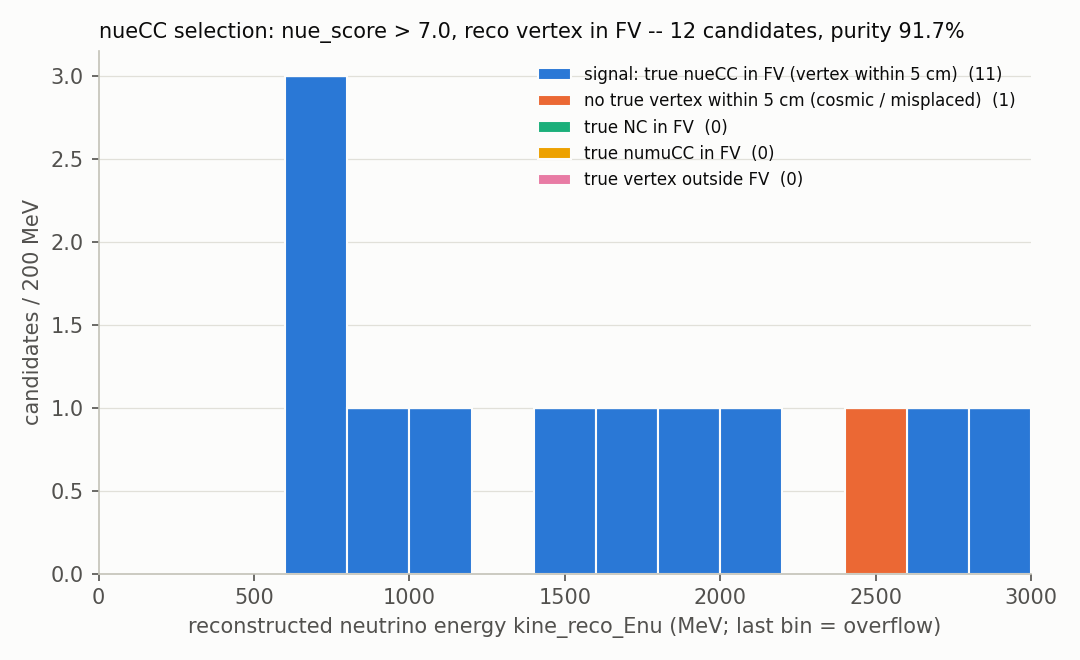
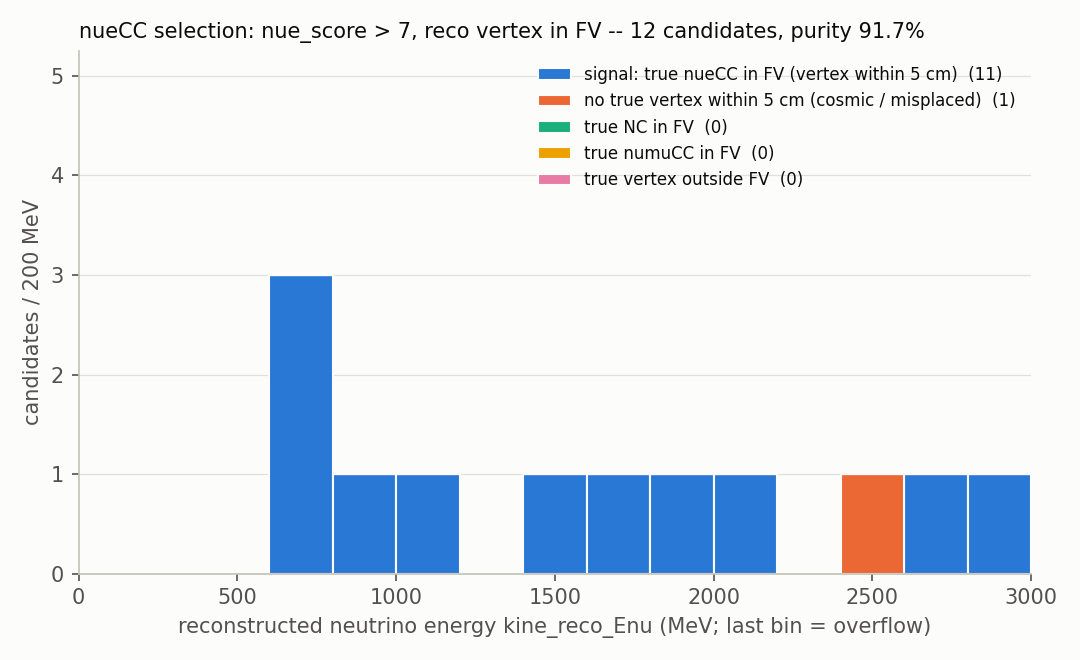
sbnd_xin/docs 107 sec 5.6: signal refined to true Edep > 100 MeV -- the FV vertex-within-5 cm fraction rises 67.7% -> 73.5% (460 of the 462 removed interactions are NC), numuCC (numu_score>0.9) stays at efficiency 69.0% / purity 86.3% and nueCC (>7.0) at 11/31 / 11/12; loosening nue_score to 4.0 giv
Claude-Session: https://claude.ai/code/session_01AFkojkfXqdAE898qtMGiLA

diff --git a/sbnd/sbnd_xin/d107_selection.py b/sbnd/sbnd_xin/d107_selection.py
@@ -1,6 +1,7 @@
 #!/usr/bin/env python3
-"""doc 107 sec 8: vertex quality, numuCC / nueCC selection efficiency and purity,
-and the stacked reconstructed-Enu spectra, from products/d107/{candidates,truth}.tsv.
+"""doc 107 sec 5.5-5.6: vertex quality, numuCC / nueCC selection efficiency and
+purity, and the stacked reconstructed-Enu spectra, from
+products/d107/{candidates,truth}.tsv.
 
 Definitions (owner's choices, 2026-09-14):
   FV        5 < |x| < 190, |y| < 190, 10 < z < 450 cm  (standard analysis FV,
@@ -8,8 +9,9 @@ Definitions (owner's choices, 2026-09-14):
             reco vertex = T_tagger nu_x/y/z.
   match     a candidate's reco vertex within 5 cm of the true vertex (its nearest
             true interaction in the event).
-  selection score cut (numu_score > 0.9 / nue_score > 7.0) AND reco vertex in FV.
-  signal    true CC of that flavour with its true vertex in the FV.
+  selection score cut (e.g. numu_score > 0.9 / nue_score > 7.0) AND reco vertex in FV.
+  signal    true CC of that flavour with its true vertex in the FV and, with
+            --edep-min E, true deposited energy Edep > E MeV (sec 5.6: E = 100).
   efficiency = true signal interactions with >= 1 matched selected candidate
                / true signal interactions.
   purity     = selected candidates matched to a signal interaction
@@ -18,26 +20,39 @@ Definitions (owner's choices, 2026-09-14):
   "numu", +-12 to "nue"), so "numuCC" includes anti-numu CC.
 
 Usage:
-  python3 d107_selection.py products/d107 docs/107_sel
+  python3 d107_selection.py products/d107 docs/107_sel                  # sec 5.5
+  python3 d107_selection.py products/d107 docs/107_sel_edep100 \
+      --edep-min 100 --cuts numu:0.9,nue:7.0,nue:4.0                    # sec 5.6
 """
+import argparse
 import collections
 import csv
 import math
 import os
-import sys
 
 import matplotlib
 
 matplotlib.use("Agg")
 import matplotlib.pyplot as plt  # noqa: E402
 
-src = sys.argv[1] if len(sys.argv) > 1 else "products/d107"
-figdir = sys.argv[2] if len(sys.argv) > 2 else "docs/107_sel"
+ap = argparse.ArgumentParser(description=__doc__,
+                             formatter_class=argparse.RawDescriptionHelpFormatter)
+ap.add_argument("src", nargs="?", default="products/d107")
+ap.add_argument("figdir", nargs="?", default="docs/107_sel")
+ap.add_argument("--edep-min", type=float, default=0.0,
+                help="signal also needs true Edep > this (MeV); 0 = no Edep requirement")
+ap.add_argument("--cuts", default="numu:0.9,nue:7.0",
+                help="comma list of flavour:score_cut")
+args = ap.parse_args()
+src, figdir, EDEP_MIN = args.src, args.figdir, args.edep_min
 C = list(csv.DictReader(open(os.path.join(src, "candidates.tsv")), delimiter="\t"))
 T = list(csv.DictReader(open(os.path.join(src, "truth.tsv")), delimiter="\t"))
 f = float
 MATCH_CM = 5.0
-CUTS = {"numu": ("numu_score", 0.9), "nue": ("nue_score", 7.0)}
+SCORE = {"numu": "numu_score", "nue": "nue_score"}
+DEFAULT_CUT = {"numu": 0.9, "nue": 7.0}
+CUTS = [(fl, float(c)) for fl, c in (x.split(":") for x in args.cuts.split(","))]
+EDEP_TXT = f", Edep > {EDEP_MIN:g} MeV" if EDEP_MIN > 0 else ""
 
 
 def in_fv(x, y, z):
@@ -71,6 +86,8 @@ truth = {}
 for t in T:
     t["fv"] = in_fv(f(t["vx"]), f(t["vy"]), f(t["vz"]))
     t["cls"] = tclass(t["flav"], t["ccnc"])
+    # no Edep requirement at all when --edep-min is 0 (23 FV interactions have Edep = 0)
+    t["edep_ok"] = EDEP_MIN <= 0 or f(t["Edep"]) > EDEP_MIN
     truth[(ev(t), t["idx"])] = t
 for r in C:
     r["reco_fv"] = r["vertex_default"] == "0" and in_fv(f(r["nu_x"]), f(r["nu_y"]), f(r["nu_z"]))
@@ -80,15 +97,16 @@ for r in C:
 
 out = []
 p = out.append
-p("# doc 107 sec 8 -- selection numbers (d107_selection.py)")
+p("# doc 107 sec 5.5 -- selection numbers (d107_selection.py)" if EDEP_MIN <= 0 else
+  f"# doc 107 sec 5.6 -- selection numbers, signal Edep > {EDEP_MIN:g} MeV (d107_selection.py)")
 p(f"FV 5<|x|<190, |y|<190, 10<z<450 cm; match = reco vertex within {MATCH_CM} cm; "
   "intervals are 68% Wilson")
 p(f"truth interactions {len(T)}, in FV {sum(t['fv'] for t in T)}; candidates {len(C)}, "
   f"reco vertex in FV {sum(r['reco_fv'] for r in C)}")
 
 # ---- Q1: vertex quality for true interactions in the FV
-p("\n## Q1 vertex within 5 cm, true vertex in FV")
-fvT = [t for t in T if t["fv"]]
+p(f"\n## Q1 vertex within 5 cm, true vertex in FV{EDEP_TXT}")
+fvT = [t for t in T if t["fv"] and t["edep_ok"]]
 hit = lambda t: 0 <= f(t["min_cand_dist_cm"]) < MATCH_CM
 p("all true nu in FV:               " + frac(sum(hit(t) for t in fvT), len(fvT)))
 wc = [t for t in fvT if t["event_has_candidate"] == "1"]
@@ -98,8 +116,12 @@ for cl in ("numuCC", "NC", "nueCC"):
     p(f"  {cl:7s}:                       " + frac(sum(hit(t) for t in s), len(s)))
 for lo, hi in [(0, 100), (100, 300), (300, 1e9)]:
     s = [t for t in fvT if lo <= f(t["Edep"]) < hi]
+    if not s:
+        continue
     p(f"  Edep [{lo},{hi if hi < 1e9 else 'inf'}) MeV:          "
       + frac(sum(hit(t) for t in s), len(s)))
+
+LOW_EDEP = "same CC in FV, Edep <= {e:g} MeV"
 
 
 # ---- Q2-Q4: efficiency and purity
@@ -114,19 +136,23 @@ def category(r, flav):
         return "NC in FV"
     if t["cls"] != flav + "CC":
         return ("nueCC" if flav == "numu" else "numuCC") + " in FV"
+    if not t["edep_ok"]:
+        return LOW_EDEP
     return "signal"
 
 
 summary = {}
-for flav, (col, cut) in CUTS.items():
+for flav, cut in CUTS:
+    col = SCORE[flav]
     sig = flav + "CC"
-    p(f"\n## {sig}: {col} > {cut} and reco vertex in FV")
+    p(f"\n## {sig}: {col} > {cut:g} and reco vertex in FV; signal = true {sig} in FV{EDEP_TXT}")
     sigT = [t for t in fvT if t["cls"] == sig]
     matched_any = set()
     matched_fv = set()
     matched_sel = set()
     for r in C:
-        if r["matched"] and r["truth"] is not None and r["truth"]["fv"] and r["truth"]["cls"] == sig:
+        t = r["truth"]
+        if r["matched"] and t is not None and t["fv"] and t["edep_ok"] and t["cls"] == sig:
             key = (ev(r), r["t_idx"])
             matched_any.add(key)
             if r["reco_fv"]:
@@ -138,10 +164,10 @@ for flav, (col, cut) in CUTS.items():
     k_any = sum(k in matched_any for k in keys)
     k_fv = sum(k in matched_fv for k in keys)
     k_sel = sum(k in matched_sel for k in keys)
-    p(f"true {sig} in FV: {n}")
+    p(f"true {sig} in FV{EDEP_TXT}: {n}")
     p("  candidate vertex within 5 cm:              " + frac(k_any, n))
     p("  ... and reco vertex in FV:                 " + frac(k_fv, n))
-    p(f"  ... and {col} > {cut} (EFFICIENCY):      " + frac(k_sel, n))
+    p(f"  ... and {col} > {cut:g} (EFFICIENCY):      " + frac(k_sel, n))
     p(f"  score-cut efficiency given a matched FV candidate: " + frac(k_sel, k_fv))
     sel = [r for r in C if r["reco_fv"] and f(r[col]) > cut]
     cats = collections.Counter(category(r, flav) for r in sel)
@@ -149,7 +175,7 @@ for flav, (col, cut) in CUTS.items():
     p("  PURITY (signal):                           " + frac(cats["signal"], len(sel)))
     for c, v in cats.most_common():
         if c != "signal":
-            p(f"  background {c:28s} {v:5d} ({100*v/max(1,len(sel)):.1f}%)")
+            p(f"  background {c.format(e=EDEP_MIN):28s} {v:5d} ({100*v/max(1,len(sel)):.1f}%)")
     # split the unmatched background by the distance to (and class of) the
     # nearest true interaction: 5-20 cm from a true signal-flavour CC is a
     # misplaced vertex on a real neutrino, > 50 cm is cosmic / other activity
@@ -165,7 +191,7 @@ for flav, (col, cut) in CUTS.items():
     sel_all = [r for r in C if f(r[col]) > cut]
     p(f"  (no reco-FV requirement: {len(sel_all)} candidates, signal "
       + frac(sum(category(r, flav) == 'signal' for r in sel_all), len(sel_all)) + ")")
-    summary[flav] = (sel, cats)
+    summary[(flav, cut)] = (sel, cats)
 
 txt = "\n".join(out) + "\n"
 print(txt)
@@ -175,40 +201,45 @@ with open(os.path.join(figdir, "d107_selection.txt"), "w") as fo:
 
 # ---- plots: stacked reco-Enu spectra, signal vs background categories
 SURFACE, INK, INK2, GRID, AXIS = "#fcfcfb", "#0b0b0b", "#52514e", "#e1e0d9", "#c3c2b7"
-# categorical slots 1-5 of the validated reference palette, fixed order
+# categorical slots 1-6 of the validated reference palette, fixed order
 ORDER = {
     "numu": ["signal", "no true vertex within 5 cm", "NC in FV", "nueCC in FV",
              "true vertex outside FV"],
     "nue": ["signal", "no true vertex within 5 cm", "NC in FV", "numuCC in FV",
             "true vertex outside FV"],
 }
-COLORS = ["#2a78d6", "#eb6834", "#1baf7a", "#eda100", "#e87ba4"]
-LABEL = {"signal": "signal: true {s} in FV (vertex within 5 cm)",
+COLORS = ["#2a78d6", "#eb6834", "#1baf7a", "#eda100", "#e87ba4", "#008300"]
+LABEL = {"signal": "signal: true {s} in FV{x} (vertex within 5 cm)",
          "no true vertex within 5 cm": "no true vertex within 5 cm (cosmic / misplaced)",
          "NC in FV": "true NC in FV", "nueCC in FV": "true nueCC in FV",
          "numuCC in FV": "true numuCC in FV",
-         "true vertex outside FV": "true vertex outside FV"}
+         "true vertex outside FV": "true vertex outside FV",
+         LOW_EDEP: "true {s} in FV, Edep <= {e:g} MeV"}
 BINS = {"numu": [i * 100 for i in range(31)], "nue": [i * 200 for i in range(16)]}
 plt.rcParams.update({"font.family": "sans-serif", "font.size": 10})
-for flav, (col, cut) in CUTS.items():
-    sel, cats = summary[flav]
+for flav, cut in CUTS:
+    col = SCORE[flav]
+    sel, cats = summary[(flav, cut)]
     sig = flav + "CC"
+    order = ORDER[flav] + ([LOW_EDEP] if EDEP_MIN > 0 else [])
     fig, ax = plt.subplots(figsize=(7.2, 4.4), dpi=150)
     fig.patch.set_facecolor(SURFACE)
     ax.set_facecolor(SURFACE)
     data, labels, colors = [], [], []
-    for cat, colr in zip(ORDER[flav], COLORS):
+    for cat, colr in zip(order, COLORS):
         e = [min(f(r["reco_Enu"]), BINS[flav][-1] - 1e-6) for r in sel if category(r, flav) == cat]
         data.append(e)
-        labels.append(f"{LABEL[cat].format(s=sig)}  ({len(e)})")
+        labels.append(f"{LABEL[cat].format(s=sig, x=EDEP_TXT, e=EDEP_MIN)}  ({len(e)})")
         colors.append(colr)
-    ax.hist(data, bins=BINS[flav], stacked=True, color=colors, label=labels,
-            edgecolor=SURFACE, linewidth=1.0)
+    counts, _, _ = ax.hist(data, bins=BINS[flav], stacked=True, color=colors, label=labels,
+                           edgecolor=SURFACE, linewidth=1.0)
     ax.set_xlim(BINS[flav][0], BINS[flav][-1])
+    # headroom so the legend never sits on a bar
+    ax.set_ylim(0, 1.75 * max(1.0, float(max(counts[-1]))))
     ax.set_xlabel("reconstructed neutrino energy kine_reco_Enu (MeV; last bin = overflow)", color=INK2)
     ax.set_ylabel(f"candidates / {BINS[flav][1]} MeV", color=INK2)
     k = cats["signal"]
-    ax.set_title(f"{sig} selection: {col} > {cut}, reco vertex in FV -- "
+    ax.set_title(f"{sig} selection: {col} > {cut:g}, reco vertex in FV -- "
                  f"{len(sel)} candidates, purity {100*k/max(1,len(sel)):.1f}%",
                  color=INK, fontsize=10, loc="left")
     ax.grid(axis="y", color=GRID, linewidth=0.6)
@@ -222,6 +253,7 @@ for flav, (col, cut) in CUTS.items():
     for t in leg.get_texts():
         t.set_color(INK)
     fig.tight_layout()
-    fig.savefig(os.path.join(figdir, f"d107_enu_{flav}cc.png"), facecolor=SURFACE)
+    suffix = "" if cut == DEFAULT_CUT[flav] else f"_cut{cut:g}"
+    fig.savefig(os.path.join(figdir, f"d107_enu_{flav}cc{suffix}.png"), facecolor=SURFACE)
     plt.close(fig)
 print("wrote", figdir)

diff --git a/sbnd/sbnd_xin/docs/107_mc-truth-and-tagger-consistency.md b/sbnd/sbnd_xin/docs/107_mc-truth-and-tagger-consistency.md
@@ -27,7 +27,7 @@ write into an existing output dir.
 | Where is the reco? | `tracking-pr/tracking-pr_<tag>.root`. `T_tagger` holds `numu_score`, `nue_score`, `neutrino_type`, the ~1200 tagger/BDT variables and the `act_*` cosmic-tagger arrays. `T_kine` holds `kine_reco_Enu`. Both have one row per neutrino candidate. |
 | Where is the truth (type, Enu, vertex)? | **Only in Bee**, in `bee/bee_<tag>.zip::data/0/0-mc.json`. The tracking-pr ROOT files carry **no** truth branches. |
 | Does mc.json hold truth or reco particle flow? | **Both, in one tree.** The truth interaction nodes (id 9000000+) come from larwirecell's `TensorSetLabeler`. Our reco PF is grafted under a single `reco nu …` node (id 19999999, children ≥ 20000000), or a `no reco neutrino candidate (…)` marker replaces it. Each node is unambiguous by id and text (section 2.2). |
-| Vertex quality / numuCC / nueCC selection (FV 5<\|x\|<190, \|y\|<190, 10<z<450 cm; match = vertex within 5 cm) | Vertex within 5 cm for 67.7 % of true ν in the FV (80.0 % numuCC). numuCC with `numu_score>0.9`: efficiency **69.0 %**, purity **86.3 %**. nueCC with `nue_score>7.0`: 11/31 = 35.5 % efficiency and 11/12 purity, which is statistics-limited in this BNB sample (section 5.5). |
+| Vertex quality / numuCC / nueCC selection (FV 5<\|x\|<190, \|y\|<190, 10<z<450 cm; match = vertex within 5 cm) | Vertex within 5 cm for 67.7 % of true ν in the FV (80.0 % numuCC). numuCC with `numu_score>0.9`: efficiency **69.0 %**, purity **86.3 %**. nueCC with `nue_score>7.0`: 11/31 = 35.5 % efficiency and 11/12 purity, which is statistics-limited in this BNB sample (section 5.5). Requiring true Edep > 100 MeV in the signal raises the vertex number to 73.5 % and leaves both selections unchanged. At `nue_score>4.0` the nueCC purity is 14/22 = 63.6 % (efficiency 14/31) (section 5.6). |
 | Is the PR candidate the non-cosmic one? | **Yes, in 6236/6236 rows, by construction.** The per-bundle `pick()` skips any activity with TGM, STM or `lm_flag>0` (section 3). The informative numbers are the residuals in section 4. |
 
 ## 1. The sample
@@ -433,6 +433,76 @@ set) for signal and this sample for the numu/NC/cosmic background.
 Both figures: stacked `kine_reco_Enu`, last bin = overflow, with category counts in
 the legend. The categories and colours are the same on both, in fixed order; an
 empty category keeps its legend entry so the two plots stay comparable.
+
+## 5.6 Signal with true Edep > 100 MeV, and the nueCC cut at 4 (owner follow-up)
+
+Repro:
+
+```bash
+cd /home/xqian/toolkit-dev/wcp-porting-img/sbnd/sbnd_xin
+python3 d107_selection.py products/d107 docs/107_sel_edep100 --edep-min 100 \
+    --cuts numu:0.9,nue:7.0,nue:4.0 > ~/tmp/d107_sel_edep100.log 2>&1; echo rc=$?
+# section 5.5 numbers plus the nue > 4 line under the original definition:
+python3 d107_selection.py products/d107 docs/107_sel --cuts numu:0.9,nue:7.0,nue:4.0
+```
+
+**Refined signal:** a true CC of that flavour, vertex in the FV, **and true deposited
+energy `Edep` > 100 MeV**. `Edep` is the labeler's sum of `SimEnergyDeposit` energy
+from that interaction's particles (section 2.2).
+- **Selection:** the score cut plus reco vertex in the FV, exactly as in section 5.5.
+- **Low-Edep CC:** a selected candidate matched to a signal-flavour CC in the FV with `Edep` ≤ 100 MeV counts as background.
+- **Q1 denominator:** also restricted to `Edep` > 100 MeV.
+
+The rerun of the section 5.5 definition with the updated script reproduces every
+section 5.5 number. Only the header text changes, plus the added nue > 4 block.
+
+### Q1 with Edep > 100 MeV
+
+| Population (true vertex in FV, Edep > 100 MeV) | Vertex within 5 cm | (sec 5.5, no Edep cut) |
+|---|---|---|
+| **all true neutrinos** | **3262/4439 = 73.5 %** [72.8, 74.1] | 67.7 % |
+| … only events that have a candidate | 3262/4128 = 79.0 % | 77.5 % |
+| true numuCC | 2801/3500 = 80.0 % | 80.0 % |
+| true NC | 437/908 = 48.1 % [46.5, 49.8] | 35.8 % |
+| true nueCC | 24/31 = 77.4 % | 77.4 % |
+
+The Edep cut removes 462 low-activity FV interactions, 460 of them NC. That is where
+the all-neutrino number moves from 67.7 % to 73.5 %.
+
+### numuCC and nueCC with Edep > 100 MeV
+
+| Selection | True signal in FV (Edep > 100 MeV) | Efficiency | Selected | Purity |
+|---|---|---|---|---|
+| `numu_score > 0.9` | 3 500 | **2415/3500 = 69.0 %** [68.2, 69.8] | 2 799 | **2415/2799 = 86.3 %** [85.6, 86.9] |
+| `nue_score > 7.0` | 31 | **11/31 = 35.5 %** [27.5, 44.4] | 12 | **11/12 = 91.7 %** [80.2, 96.8] |
+| `nue_score > 4.0` | 31 | **14/31 = 45.2 %** [36.5, 54.1] | 22 | **14/22 = 63.6 %** [53.0, 73.1] |
+
+**The Edep requirement does not move the selection numbers.**
+- **numuCC:** only 2 of the 3 502 true numuCC in the FV have `Edep` ≤ 100 MeV, and neither was selected. The efficiency denominator drops by 2 and the purity is unchanged.
+- **nueCC:** all 31 true nueCC in the FV have `Edep` > 100 MeV.
+- **Low-Edep background:** the category "same CC in FV, Edep ≤ 100 MeV" is empty in all three selections.
+
+**nueCC at `nue_score > 4.0`:** purity is **14/22 = 63.6 %** [53.0, 73.1], identical
+with and without the Edep cut. Loosening from 7.0 to 4.0 gains 3 signal (11 → 14)
+and 7 background (1 → 8). The 8 background candidates are:
+
+| Background at `nue_score > 4.0` | Count |
+|---|---|
+| true numuCC in FV (vertex within 5 cm) | 3 |
+| true NC in FV (vertex within 5 cm) | 2 |
+| no true vertex within 5 cm (nearest: an NC at 20-50 cm, a numuCC > 50 cm) | 2 |
+| true vertex outside FV | 1 |
+
+Without the reco-FV requirement, 27 candidates pass, with 14 signal (51.9 %). The
+statistics warning of section 5.5 applies even more here, since each background
+candidate moves the purity by ~4 %. The background composition (numuCC and NC
+leaking in above 4) is the part worth checking against the intrinsic-nue sample.
+
+![numuCC selection, signal Edep > 100 MeV](107_sel_edep100/d107_enu_numucc.png)
+
+![nueCC selection at nue_score > 7.0, signal Edep > 100 MeV](107_sel_edep100/d107_enu_nuecc.png)
+
+![nueCC selection at nue_score > 4.0, signal Edep > 100 MeV](107_sel_edep100/d107_enu_nuecc_cut4.png)
 
 ## 6. Open items (reported, not fixed)
 
